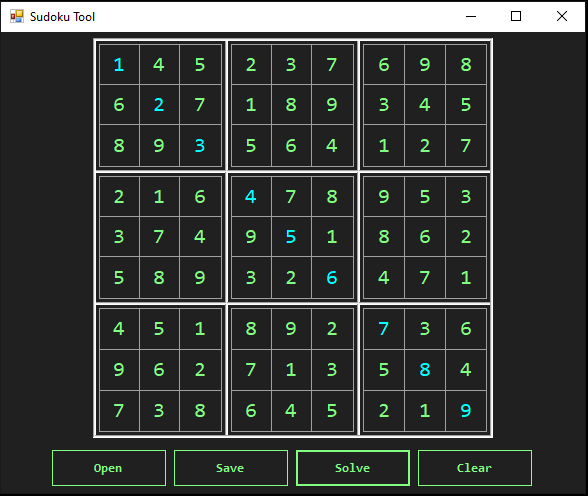
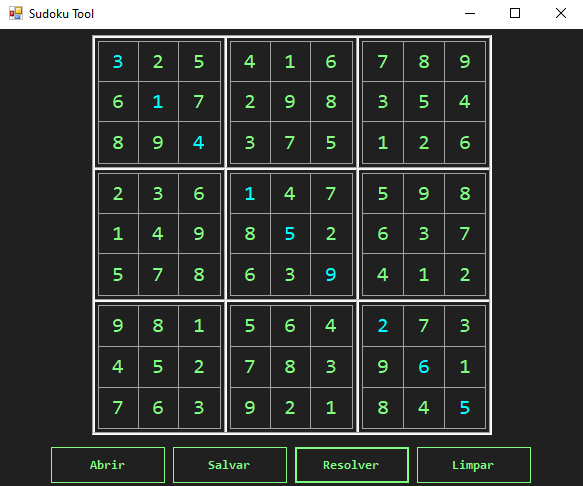
update - Atualização README e interface em português.

Changed region(s): [[0.0, 0.0, 1.0, 1.0]]

diff --git a/SudokuBacktracking/SudokuBacktracking/FormMain.Designer.cs b/SudokuBacktracking/SudokuBacktracking/FormMain.Designer.cs
@@ -121,10 +121,10 @@
             this.textBox2 = new System.Windows.Forms.TextBox();
             this.textBox1 = new System.Windows.Forms.TextBox();
             this.tableLayoutPanel2 = new System.Windows.Forms.TableLayoutPanel();
+            this.Button_Save = new System.Windows.Forms.Button();
+            this.Button_Open = new System.Windows.Forms.Button();
             this.Button_Clear = new System.Windows.Forms.Button();
             this.Button_Run = new System.Windows.Forms.Button();
-            this.Button_Open = new System.Windows.Forms.Button();
-            this.Button_Save = new System.Windows.Forms.Button();
             this.tableLayoutPanel1.SuspendLayout();
             this.sudokuBoard.SuspendLayout();
             this.block_9.SuspendLayout();
@@ -1607,6 +1607,34 @@
             this.tableLayoutPanel2.Size = new System.Drawing.Size(489, 43);
             this.tableLayoutPanel2.TabIndex = 2;
             // 
+            // Button_Save
+            // 
+            this.Button_Save.Anchor = System.Windows.Forms.AnchorStyles.None;
+            this.Button_Save.FlatStyle = System.Windows.Forms.FlatStyle.Flat;
+            this.Button_Save.Font = new System.Drawing.Font("Consolas", 9.75F, System.Drawing.FontStyle.Bold, System.Drawing.GraphicsUnit.Point, ((byte)(0)));
+            this.Button_Save.ForeColor = System.Drawing.Color.FromArgb(((int)(((byte)(128)))), ((int)(((byte)(255)))), ((int)(((byte)(128)))));
+            this.Button_Save.Location = new System.Drawing.Point(126, 3);
+            this.Button_Save.Name = "Button_Save";
+            this.Button_Save.Size = new System.Drawing.Size(114, 36);
+            this.Button_Save.TabIndex = 4;
+            this.Button_Save.Text = "Salvar";
+            this.Button_Save.UseVisualStyleBackColor = true;
+            this.Button_Save.Click += new System.EventHandler(this.Button_Save_Click);
+            // 
+            // Button_Open
+            // 
+            this.Button_Open.Anchor = System.Windows.Forms.AnchorStyles.None;
+            this.Button_Open.FlatStyle = System.Windows.Forms.FlatStyle.Flat;
+            this.Button_Open.Font = new System.Drawing.Font("Consolas", 9.75F, System.Drawing.FontStyle.Bold, System.Drawing.GraphicsUnit.Point, ((byte)(0)));
+            this.Button_Open.ForeColor = System.Drawing.Color.FromArgb(((int)(((byte)(128)))), ((int)(((byte)(255)))), ((int)(((byte)(128)))));
+            this.Button_Open.Location = new System.Drawing.Point(4, 3);
+            this.Button_Open.Name = "Button_Open";
+            this.Button_Open.Size = new System.Drawing.Size(114, 36);
+            this.Button_Open.TabIndex = 3;
+            this.Button_Open.Text = "Abrir";
+            this.Button_Open.UseVisualStyleBackColor = true;
+            this.Button_Open.Click += new System.EventHandler(this.Button_Open_Click);
+            // 
             // Button_Clear
             // 
             this.Button_Clear.Anchor = System.Windows.Forms.AnchorStyles.None;
@@ -1617,7 +1645,7 @@
             this.Button_Clear.Name = "Button_Clear";
             this.Button_Clear.Size = new System.Drawing.Size(114, 36);
             this.Button_Clear.TabIndex = 2;
-            this.Button_Clear.Text = "Clear";
+            this.Button_Clear.Text = "Limpar";
             this.Button_Clear.UseVisualStyleBackColor = true;
             this.Button_Clear.Click += new System.EventHandler(this.Button_Clear_Click);
             // 
@@ -1631,37 +1659,9 @@
             this.Button_Run.Name = "Button_Run";
             this.Button_Run.Size = new System.Drawing.Size(114, 36);
             this.Button_Run.TabIndex = 1;
-            this.Button_Run.Text = "Solve";
+            this.Button_Run.Text = "Resolver";
             this.Button_Run.UseVisualStyleBackColor = true;
             this.Button_Run.Click += new System.EventHandler(this.Button_Run_Click);
-            // 
-            // Button_Open
-            // 
-            this.Button_Open.Anchor = System.Windows.Forms.AnchorStyles.None;
-            this.Button_Open.FlatStyle = System.Windows.Forms.FlatStyle.Flat;
-            this.Button_Open.Font = new System.Drawing.Font("Consolas", 9.75F, System.Drawing.FontStyle.Bold, System.Drawing.GraphicsUnit.Point, ((byte)(0)));
-            this.Button_Open.ForeColor = System.Drawing.Color.FromArgb(((int)(((byte)(128)))), ((int)(((byte)(255)))), ((int)(((byte)(128)))));
-            this.Button_Open.Location = new System.Drawing.Point(4, 3);
-            this.Button_Open.Name = "Button_Open";
-            this.Button_Open.Size = new System.Drawing.Size(114, 36);
-            this.Button_Open.TabIndex = 3;
-            this.Button_Open.Text = "Open";
-            this.Button_Open.UseVisualStyleBackColor = true;
-            this.Button_Open.Click += new System.EventHandler(this.Button_Open_Click);
-            // 
-            // Button_Save
-            // 
-            this.Button_Save.Anchor = System.Windows.Forms.AnchorStyles.None;
-            this.Button_Save.FlatStyle = System.Windows.Forms.FlatStyle.Flat;
-            this.Button_Save.Font = new System.Drawing.Font("Consolas", 9.75F, System.Drawing.FontStyle.Bold, System.Drawing.GraphicsUnit.Point, ((byte)(0)));
-            this.Button_Save.ForeColor = System.Drawing.Color.FromArgb(((int)(((byte)(128)))), ((int)(((byte)(255)))), ((int)(((byte)(128)))));
-            this.Button_Save.Location = new System.Drawing.Point(126, 3);
-            this.Button_Save.Name = "Button_Save";
-            this.Button_Save.Size = new System.Drawing.Size(114, 36);
-            this.Button_Save.TabIndex = 4;
-            this.Button_Save.Text = "Save";
-            this.Button_Save.UseVisualStyleBackColor = true;
-            this.Button_Save.Click += new System.EventHandler(this.Button_Save_Click);
             // 
             // FormMain
             // 

diff --git a/SudokuBacktracking/SudokuBacktracking/Algorithms.cs b/SudokuBacktracking/SudokuBacktracking/Algorithms.cs
@@ -55,6 +55,7 @@ namespace SudokuBacktracking
             }
             return msgList.Count == 0;
         }
+
         /// <summary>
         /// Verifica todas linhas em busca de números repetidos.
         /// </summary>
@@ -103,6 +104,7 @@ namespace SudokuBacktracking
             }
             return msgList.Count == 0;
         }
+
         /// <summary>
         /// Verifica todas colunas em busca de números repetidos.
         /// </summary>
@@ -152,6 +154,7 @@ namespace SudokuBacktracking
             if (msgList.Count == 0) return true;
             else return false;
         }
+
         /// <summary>
         /// Verifica se todas regras são satisfeitas.
         /// </summary>
@@ -196,6 +199,7 @@ namespace SudokuBacktracking
             }
             return true;
         }
+
         /// <summary>
         /// Algoritmo de resolução do Sudoku utilizando backtracking 
         /// </summary>

diff --git a/SudokuBacktracking/SudokuBacktracking/FormMain.cs b/SudokuBacktracking/SudokuBacktracking/FormMain.cs
@@ -47,14 +47,17 @@ namespace SudokuBacktracking
             {
                 listFails.AddRange(tmpList);
             }
+
             if (!Algorithms.CheckRows(boardCoords, out tmpList))
             {
                 listFails.AddRange(tmpList);
             }
+
             if (!Algorithms.CheckCols(boardCoords, out tmpList))
             {
                 listFails.AddRange(tmpList);
             }
+
             if (listFails.Count == 0)
             {
                 for (int row = 0; row < 9; row++)

diff --git a/SudokuBacktracking/SudokuBacktracking/Program.cs b/SudokuBacktracking/SudokuBacktracking/Program.cs
@@ -1,16 +1,10 @@
 using System;
-using System.Collections.Generic;
-using System.Linq;
-using System.Threading.Tasks;
 using System.Windows.Forms;
 
 namespace SudokuBacktracking
 {
     static class Program
     {
-        /// <summary>
-        /// Ponto de entrada principal para o aplicativo.
-        /// </summary>
         [STAThread]
         static void Main()
         {

diff --git a/SudokuBacktracking/SudokuBacktracking/BoardCoords.cs b/SudokuBacktracking/SudokuBacktracking/BoardCoords.cs
@@ -20,6 +20,7 @@ namespace SudokuBacktracking
             get => GetCoordinate(row, col);
             set => SetCoordinate(row, col, value);
         }
+
         /// <summary>
         /// Acessor por coordenada: (linha, coluna, bloco)
         /// </summary>

diff --git a/README.md b/README.md
@@ -1,6 +1,53 @@
 # Sudoku-Tool
- Simple interface to solve Sudoku with backtracking algorithm.
+
+## Descrição
+O Sudoku-Tool é uma ferramenta desenvolvida para resolver puzzles de Sudoku utilizando o algoritmo de backtracking. Esta aplicação é escrita em C# e utiliza o .NET Framework.
 
 <p align="center">
-  <img src="https://github.com/JunioCesarFerreira/Sudoku-Tool/blob/main/print.png">
+  <img src="./print.png">
 </p>
+
+## Aplicações
+- Criar configurações de Sudoku.
+- Estudar a implementação C#.
+
+## Pré-requisitos
+- Visual Studio 2019 ou superior
+- .NET Framework 4.7.2 ou superior
+
+## Instalação e Configuração
+1. **Clone o Repositório**
+    ```sh
+    git clone https://github.com/JunioCesarFerreira/Sudoku-Tool.git
+    ```
+2. **Abra o Projeto no Visual Studio**
+    - Inicie o Visual Studio.
+    - Selecione `Open a project or solution`.
+    - Navegue até o diretório onde você clonou o repositório e selecione `SudokuBacktracking.sln`.
+
+3. **Restaurar Pacotes NuGet**
+    - No Visual Studio, vá até `Tools` > `NuGet Package Manager` > `Manage NuGet Packages for Solution...`.
+    - Certifique-se de que todos os pacotes necessários estão instalados. Clique em `Restore` se necessário.
+
+4. **Compilar o Projeto**
+    - No menu superior, selecione `Build` > `Build Solution` (ou `Ctrl+Shift+B`).
+
+## Como Usar
+1. **Executar o Projeto**
+    - Após a compilação, pressione `F5` ou clique em `Start` para executar o projeto.
+
+2. **Resolver um Sudoku**
+    - Na interface da aplicação, insira os números do Sudoku que você deseja resolver.
+    - Clique no botão `Resolver` para que o algoritmo de backtracking resolva o puzzle.
+
+3. **Visualizar o Resultado**
+    - A solução do Sudoku será exibida na interface da aplicação.
+
+4. **Abrir e Salvar**
+    - Utilize os botões `Abrir` e `Salvar` para abrir jogos salvos ou para salvar seus jogos.
+
+## Executável
+O executável do programa está disponível no [diretório](./SudokuBacktracking/SudokuBacktracking/bin/Debug/).
+
+## Licença
+Este projeto está licenciado sob os termos da [licença MIT](./LICENSE).
